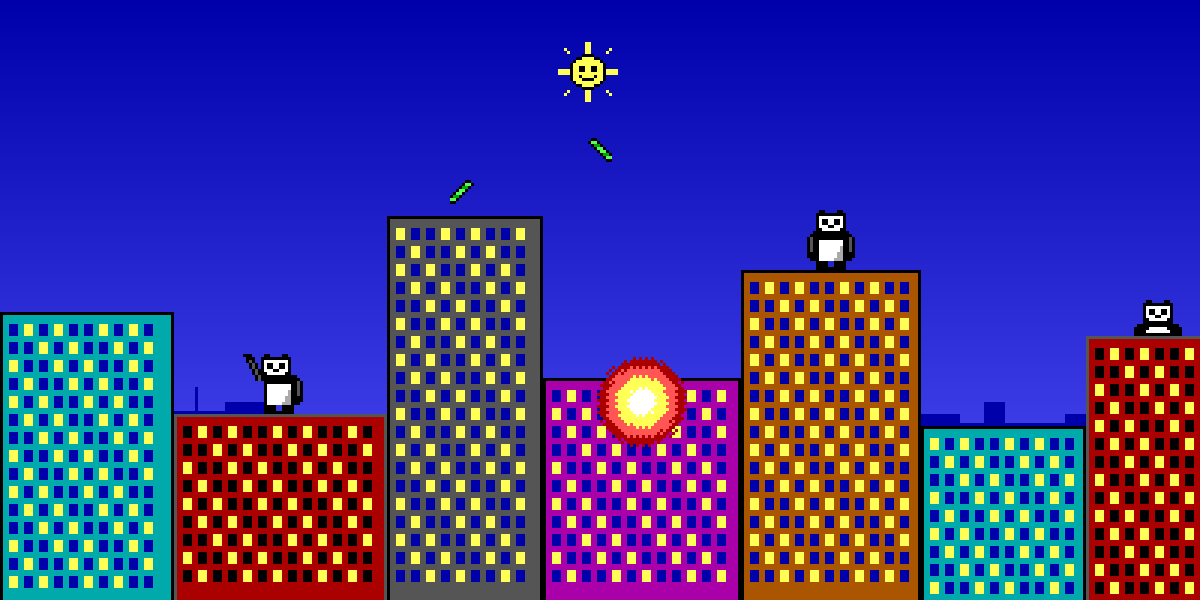
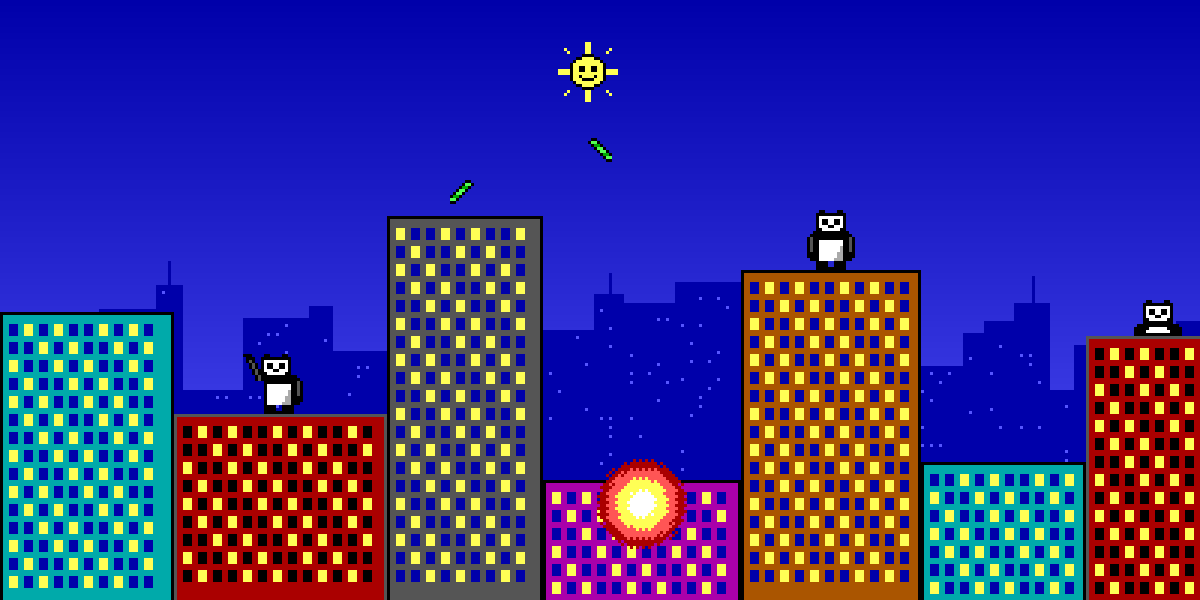
Ground the background city, and make it tall enough to be seen
Two faults, one cause: the band was anchored 45 px above the base of the
buildings, five more than BUILD_H_MIN. Every scenario carrying a 40 px
building opened a strip of bare sky under the background city, which reads
as the sky sitting on top of the skyline. The anchor now follows the
constant, so the band's base rests on the lowest roofline the generator can
produce and there is nothing left to float over.

Pinning the base is only half of it. A column of the band is seen where the
playable building in front of it is shorter than 40 plus that column's own
height; at 11-23 px tall that was buildings under 68 px, under a third of
the 40-130 range, and what cleared them was a 23 px stump. The silhouette
now runs 30-68 px, clearing buildings up to 108 px. The ceiling did not
move with it: the mass stops at y=92 on screen and the antennas at y=84,
both below SKY_BAND, so the sun and the high arcs keep their sky.

verify_assets.py checked a fixed top 60 px of the file, which only made
sense under the old proportions. It now checks what the rule was always
about -- a clear sky above the city, and a city tall enough to be worth
drawing -- in rows tied to where the engine puts the band.

The preview scene generated buildings no shorter than 58 px, so the
floating base could never appear in the one image AGENTS.md calls the
acceptance criterion. It now spans the generator's whole range.

Claude-Session: https://claude.ai/code/session_016KnCszjdXmGu5YBj1mbTcy

diff --git a/app/src/test/kotlin/com/vansid/panda/app/render/SkylineAnchorTest.kt b/app/src/test/kotlin/com/vansid/panda/app/render/SkylineAnchorTest.kt
@@ -1,0 +1,37 @@
+package com.vansid.panda.app.render
+
+import com.vansid.panda.core.G
+import org.junit.Test
+import kotlin.test.assertTrue
+
+/**
+ * The regression this guards against: the band used to be lifted 45 px above the base of
+ * the buildings, five more than the shortest building the generator can produce. On every
+ * scenario with a 40 px building, a 5 px strip of bare sky opened between the base of the
+ * background city and that roof, and the background read as floating over the skyline.
+ *
+ * The number is only ever wrong in relation to [G.BUILD_H_MIN], so that is what the
+ * assertion compares against: anyone lowering the minimum building height has to move the
+ * band with it, and this test is where they find out.
+ */
+class SkylineAnchorTest {
+    @Test
+    fun theBandNeverFloatsOverAStripOfSky() {
+        val bandBase = G.H - SKYLINE_BOTTOM_OFFSET
+        val lowestRoof = G.H - G.BUILD_H_MIN
+
+        assertTrue(
+            bandBase <= lowestRoof,
+            "the band's base is at y=$bandBase, below the lowest roof (y=$lowestRoof): " +
+                "a ${lowestRoof - bandBase} px strip of sky would show under the city",
+        )
+    }
+
+    @Test
+    fun theBandIsLiftedFarEnoughToBeSeenAtAll() {
+        assertTrue(
+            SKYLINE_BOTTOM_OFFSET > 0,
+            "flush with the bottom edge the band is buried by the playable buildings",
+        )
+    }
+}

diff --git a/app/src/main/kotlin/com/vansid/panda/app/render/GameCanvas.kt b/app/src/main/kotlin/com/vansid/panda/app/render/GameCanvas.kt
@@ -18,8 +18,16 @@ import com.vansid.panda.core.logicalScale
 /** Trail length behind the cane, in trajectory points (§13). */
 private const val TRAIL_POINTS = 12
 
-/** The skyline band sits 45 px above the base of the buildings (`art/README.md`). */
-private const val SKYLINE_BOTTOM_OFFSET = 45
+/**
+ * The bottom edge of the skyline band rests on the roofline of the shortest building the
+ * generator can produce (`art/README.md`).
+ *
+ * Flush with the bottom of the canvas the band is buried by the playable buildings, so it
+ * has to be lifted; lifted any further than this it floats, because a `BUILD_H_MIN`
+ * building leaves a strip of bare sky between the base of the background and its own
+ * roof. Tying the offset to the constant rather than to a number keeps the two in step.
+ */
+internal const val SKYLINE_BOTTOM_OFFSET = G.BUILD_H_MIN
 
 /**
  * Everything the canvas needs for one frame. Grouped into one object because a draw has

diff --git a/tools/verify_assets.py b/tools/verify_assets.py
@@ -52,6 +52,14 @@ INVENTORY = {
     "icon.png":    (24, 24, None, None, 1),
 }
 
+# Skyline geometry, in the band's own rows. The engine rests the band's bottom
+# edge on y=160 of the 200 px canvas, so row y here is y+80 on screen.
+SKYLINE_ANTENNA_TOP = 4   # nothing at all above this row
+SKYLINE_MASS_TOP = 12     # no roof above this row; only antennas in between
+SKYLINE_MAX_ROOF = 50     # every roof above this row: a lower one shows over
+                          # almost nothing, since a column is visible only
+                          # where the building in front is shorter than 120-y
+
 failures = []
 warnings = []
 
@@ -251,19 +259,36 @@ def check_skyline():
         crop = tops[:width]
         if max(crop) - min(crop) < 8:
             fail(f"skyline: cropped to {width} px the silhouette goes flat")
-    above60 = sum(1 for y in range(60) for x in range(img.width) if px[x, y][3])
-    pct = 100.0 * above60 / (60 * img.width)
-    if pct > 3.0:
-        fail(f"skyline: {pct:.1f} % of the top 60 px is occupied; "
-             f"they must stay reasonably clear")
+    # The band's bottom edge rests on y=160 of the 200 px canvas (the roofline
+    # of the shortest playable building), so row y of this image is y+80 on
+    # screen. What has to stay clear is the sky above the city, not a fixed
+    # fraction of the file: the mass stops at y=12 (y=92 on screen) and only
+    # 1 px antennas rise above it, never past y=4 (y=84). The sun lives at
+    # y=28..48, well clear of both.
+    clear = [(x, y) for y in range(SKYLINE_ANTENNA_TOP)
+             for x in range(img.width) if px[x, y][3]]
+    if clear:
+        fail(f"skyline: {len(clear)} px above y={SKYLINE_ANTENNA_TOP}; "
+             f"the sun and the high arcs own that sky")
+    band = range(SKYLINE_ANTENNA_TOP, SKYLINE_MASS_TOP)
+    above = sum(1 for y in band for x in range(img.width) if px[x, y][3])
+    pct = 100.0 * above / (len(band) * img.width)
+    if pct > 2.0:
+        fail(f"skyline: {pct:.1f} % of y={SKYLINE_ANTENNA_TOP}..{SKYLINE_MASS_TOP - 1} "
+             f"is occupied; only antennas belong above the mass")
     flat = longest = 1
     for i in range(1, len(tops)):
         flat = flat + 1 if tops[i] == tops[i - 1] else 1
         longest = max(longest, flat)
     if longest > 30:
         warn(f"skyline: a {longest} px flat plateau; it reads as a single block")
+    # Antenna columns start above the mass, so they are not roofs.
+    roofs = [t for t in tops if t >= SKYLINE_MASS_TOP]
+    if max(roofs) > SKYLINE_MAX_ROOF:
+        fail(f"skyline: a roof at y={max(roofs)}; below y={SKYLINE_MAX_ROOF} the band "
+             f"only clears the shortest playable buildings and reads as blocks")
     print(f"  skyline: profile {min(tops)}-{max(tops)}, "
-          f"{pct:.1f} % above y=60, longest plateau {longest} px")
+          f"{pct:.1f} % of the antenna band, longest plateau {longest} px")
 
 
 def check_logo():

diff --git a/tools/art_skyline.py b/tools/art_skyline.py
@@ -11,6 +11,27 @@ windows on the playable facades, and repeating it here erases the difference
 between what is in front and what is behind. In light blue the band stays where
 it belongs, at the back.
 
+Where the band lands, and why the buildings are this tall
+---------------------------------------------------------
+The engine rests the bottom edge of the band on y = G.H - G.BUILD_H_MIN = 160 of
+the 200 px canvas: the roofline of the *shortest* playable building it can
+generate. That anchor is not decorative, it is what keeps the band from floating.
+Any higher and a 40 px building leaves a strip of bare sky between the base of
+the background and its own roof, which reads as the sky being painted on top of
+the city.
+
+With the base pinned at 160, whatever is to be seen has to be drawn upwards:
+a column of the band is only visible where the playable building in front of it
+is shorter than 40 + that column's own height. The first delivery was 11-23 px
+tall and sat on a 45 px anchor, so it cleared only buildings below 68 px -- under
+a third of the generated range, 40-130 -- and where it did clear one it showed a
+stump 23 px tall at best. At 30-68 px the band clears buildings up to 108 px,
+most of the range, and reads as a city rather than as blocks.
+
+The ceiling is the other constraint: the mass stops at y=12 of the band
+(y=92 on screen) and the antennas at y=4 (y=84), which leaves the sun (y=28-48)
+and the high arcs of the trajectories a clear band of sky above.
+
 The layout comes from a fixed-seed LCG, so the PNG is reproducible bit for bit
 from this file.
 """
@@ -21,8 +42,10 @@ WIDTH, HEIGHT = 460, 80
 SILHOUETTE, WINDOW = 1, 9
 
 BASE_Y = HEIGHT - 1                  # the band rests on the bottom edge
-MIN_HEIGHT, MAX_HEIGHT = 11, 23      # leaves the top 57 px clear
+MIN_HEIGHT, MAX_HEIGHT = 30, 68      # tall enough to clear the playable roofs
 MIN_WIDTH, MAX_WIDTH = 7, 24
+MASS_TOP = HEIGHT - MAX_HEIGHT       # 12: no roof above this row
+ANTENNA_TOP = 4                      # only antennas between here and MASS_TOP
 SEED = 0x60411A5                     # arbitrary, but fixed on purpose
 
 
@@ -59,11 +82,12 @@ def build() -> Canvas:
         top = BASE_Y - h + 1
         c.fill_rect(x, top, min(x + w - 1, WIDTH - 1), BASE_Y, SILHOUETTE)
 
-        # One antenna every few buildings. 1 px wide and never above y=48, so it
-        # does not intrude on the high arc of the trajectories.
+        # One antenna every few buildings. 1 px wide and never above y=4 of the
+        # band -- y=84 on screen -- so it does not intrude on the high arc of
+        # the trajectories.
         if n % 5 == 3:
             ax = x + w // 2
-            atop = max(48, top - rnd.between(4, 9))
+            atop = max(ANTENNA_TOP, top - rnd.between(4, 9))
             c.fill_rect(ax, atop, ax, top, SILHOUETTE)
 
         # Windows: a 1 px dot on a 3 px grid, lit sparsely.

diff --git a/tools/preview_scene.py b/tools/preview_scene.py
@@ -29,7 +29,10 @@ WIDTH, HEIGHT = 400, 200
 GROUND = HEIGHT
 # The skyline band is anchored above the base of the buildings, not at the
 # bottom edge of the screen: flush with the bottom it is completely hidden.
-SKYLINE_BASE = HEIGHT - 45
+# The engine uses G.BUILD_H_MIN, the roofline of the shortest building it can
+# generate, so that the band never floats over a strip of bare sky.
+BUILD_H_MIN = 40
+SKYLINE_BASE = HEIGHT - BUILD_H_MIN
 
 
 def _hex(s):
@@ -62,8 +65,11 @@ def _sky(img):
 def _buildings(img, swatches):
     """Generate buildings the way the engine would: from the four key pixels only."""
     px = img.load()
+    # Heights span the generator's whole range, BUILD_H_MIN included: the
+    # shortest building is the one that exposes a badly anchored skyline, and
+    # a scene without one hides the bug instead of showing it.
     widths = [58, 71, 52, 66, 60, 55, 48]
-    heights = [96, 62, 128, 74, 110, 58, 88]
+    heights = [96, 62, 128, 40, 110, 46, 88]
     roofs = []
     x = 0
     for n, (w, h) in enumerate(zip(widths, heights)):

diff --git a/art/README.md b/art/README.md
@@ -155,9 +155,13 @@ circle past 46 %, which reads as a mistake rather than as an icon; one filtered
 downscale from hdpi keeps the proportions instead.
 
 `skyline.png` is 460 px wide and gets cropped from the right to the real canvas
-width. In the test scene the band is anchored 45 px above the base of the
-buildings; flush with the bottom edge of the screen it is completely hidden by
-the playable buildings.
+width. The band's bottom edge rests on `G.BUILD_H_MIN` — 40 px above the base of
+the buildings, the roofline of the shortest one the generator can produce — in
+the engine and in the test scene alike. Flush with the bottom edge of the screen
+it is completely hidden by the playable buildings; any higher and it floats, with
+a strip of bare sky under the background city wherever a 40 px building stands.
+That is the whole of the anchor, and `SkylineAnchorTest` holds the two numbers
+together.
 
 ## Decisions that depart from the brief
 
@@ -197,6 +201,21 @@ corresponding `art_*.py`.
    colour of the lit windows on the playable facades; repeating it in the
    background erases the difference between what is in front and what is behind.
 10. **`logo.png` was made despite the block in section 9.** See below.
+11. **The skyline's buildings are 30-68 px tall, not the 11-23 px of the first
+    delivery, and the band is anchored at 40 px rather than 45.** The two go
+    together and both were found by playing rather than by looking at the piece
+    on its own. With the band lifted 45 px, any scenario containing a 40 px
+    building — the generator's own minimum — showed 5 px of sky underneath the
+    background city, which reads as the sky being painted over the skyline. And
+    once the base is pinned at the lowest roofline, a column of the band is only
+    visible where the playable building in front of it is shorter than 40 plus
+    that column's own height. At 11-23 px on a 45 px anchor that was buildings
+    under 68 px, under a third of the 40-130 range, and what cleared them was a
+    stump 23 px tall at best — which is why the background so often was not
+    there at all. At 30-68 px the band clears buildings up to 108 px and reads
+    as a distant city. The ceiling did not move for this: the mass
+    stops at y=92 on screen and the antennas at y=84, both below `SKY_BAND`, so
+    the sun at y=28-48 and the high arcs keep the sky they had.
 
 ## Pending decisions
 

diff --git a/AGENTS.md b/AGENTS.md
@@ -123,9 +123,14 @@ weaken a check to make a change pass; fix the art.
    must grow monotonically.
 7. **Facade base colours.** Never green (the bamboo cane would vanish in front of
    it) and never white (the panda would). All five bases must differ.
-8. **Skyline.** No empty columns, the top 60 px must stay reasonably clear, and
-   the silhouette must still read cropped from the right at any width from 320 to
-   460 px. No centred composition, no memorable landmark.
+8. **Skyline.** No empty columns, and the silhouette must still read cropped from
+   the right at any width from 320 to 460 px. No centred composition, no
+   memorable landmark. Its 80 rows are not the top of the screen: the engine
+   rests the band's bottom edge on the lowest possible roofline, so row y of the
+   file is y+80 on the 200 px canvas. What has to stay clear is the sky above the
+   city — no roof above y=12 of the band and no antenna above y=4 — and what has
+   to stay tall is the city itself, because a column is only seen where the
+   playable building in front of it is shorter than 120 minus that column's roof.
 
 ## Before calling art work done
 
